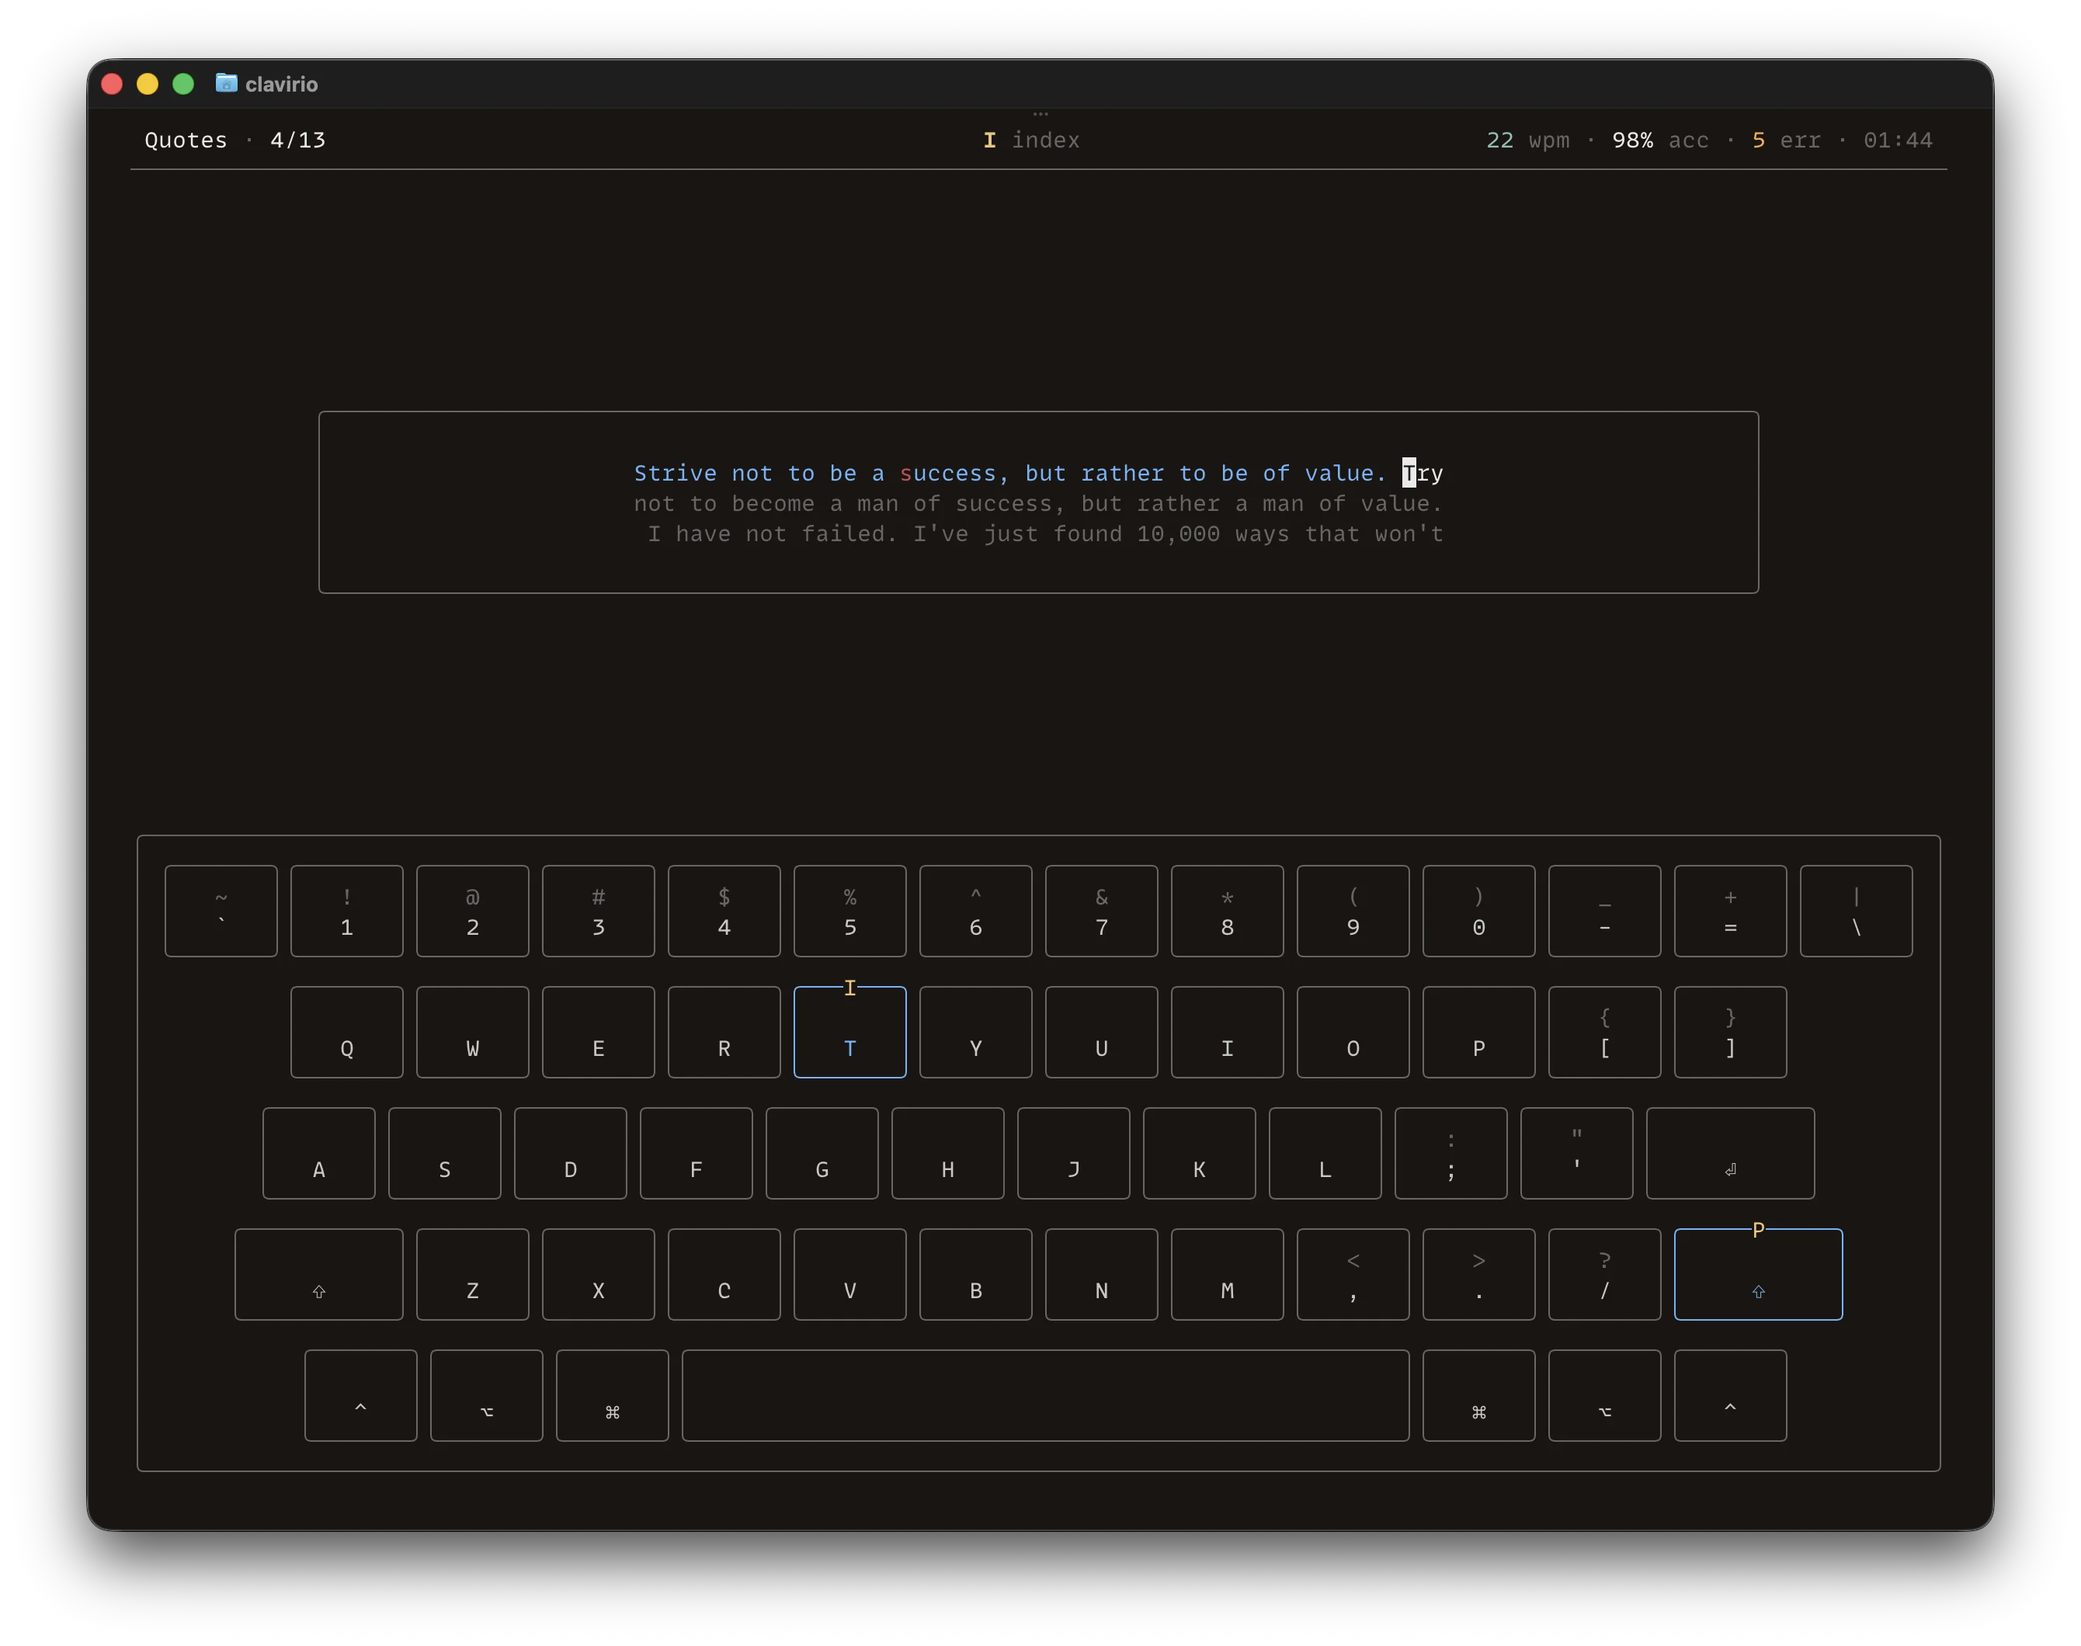
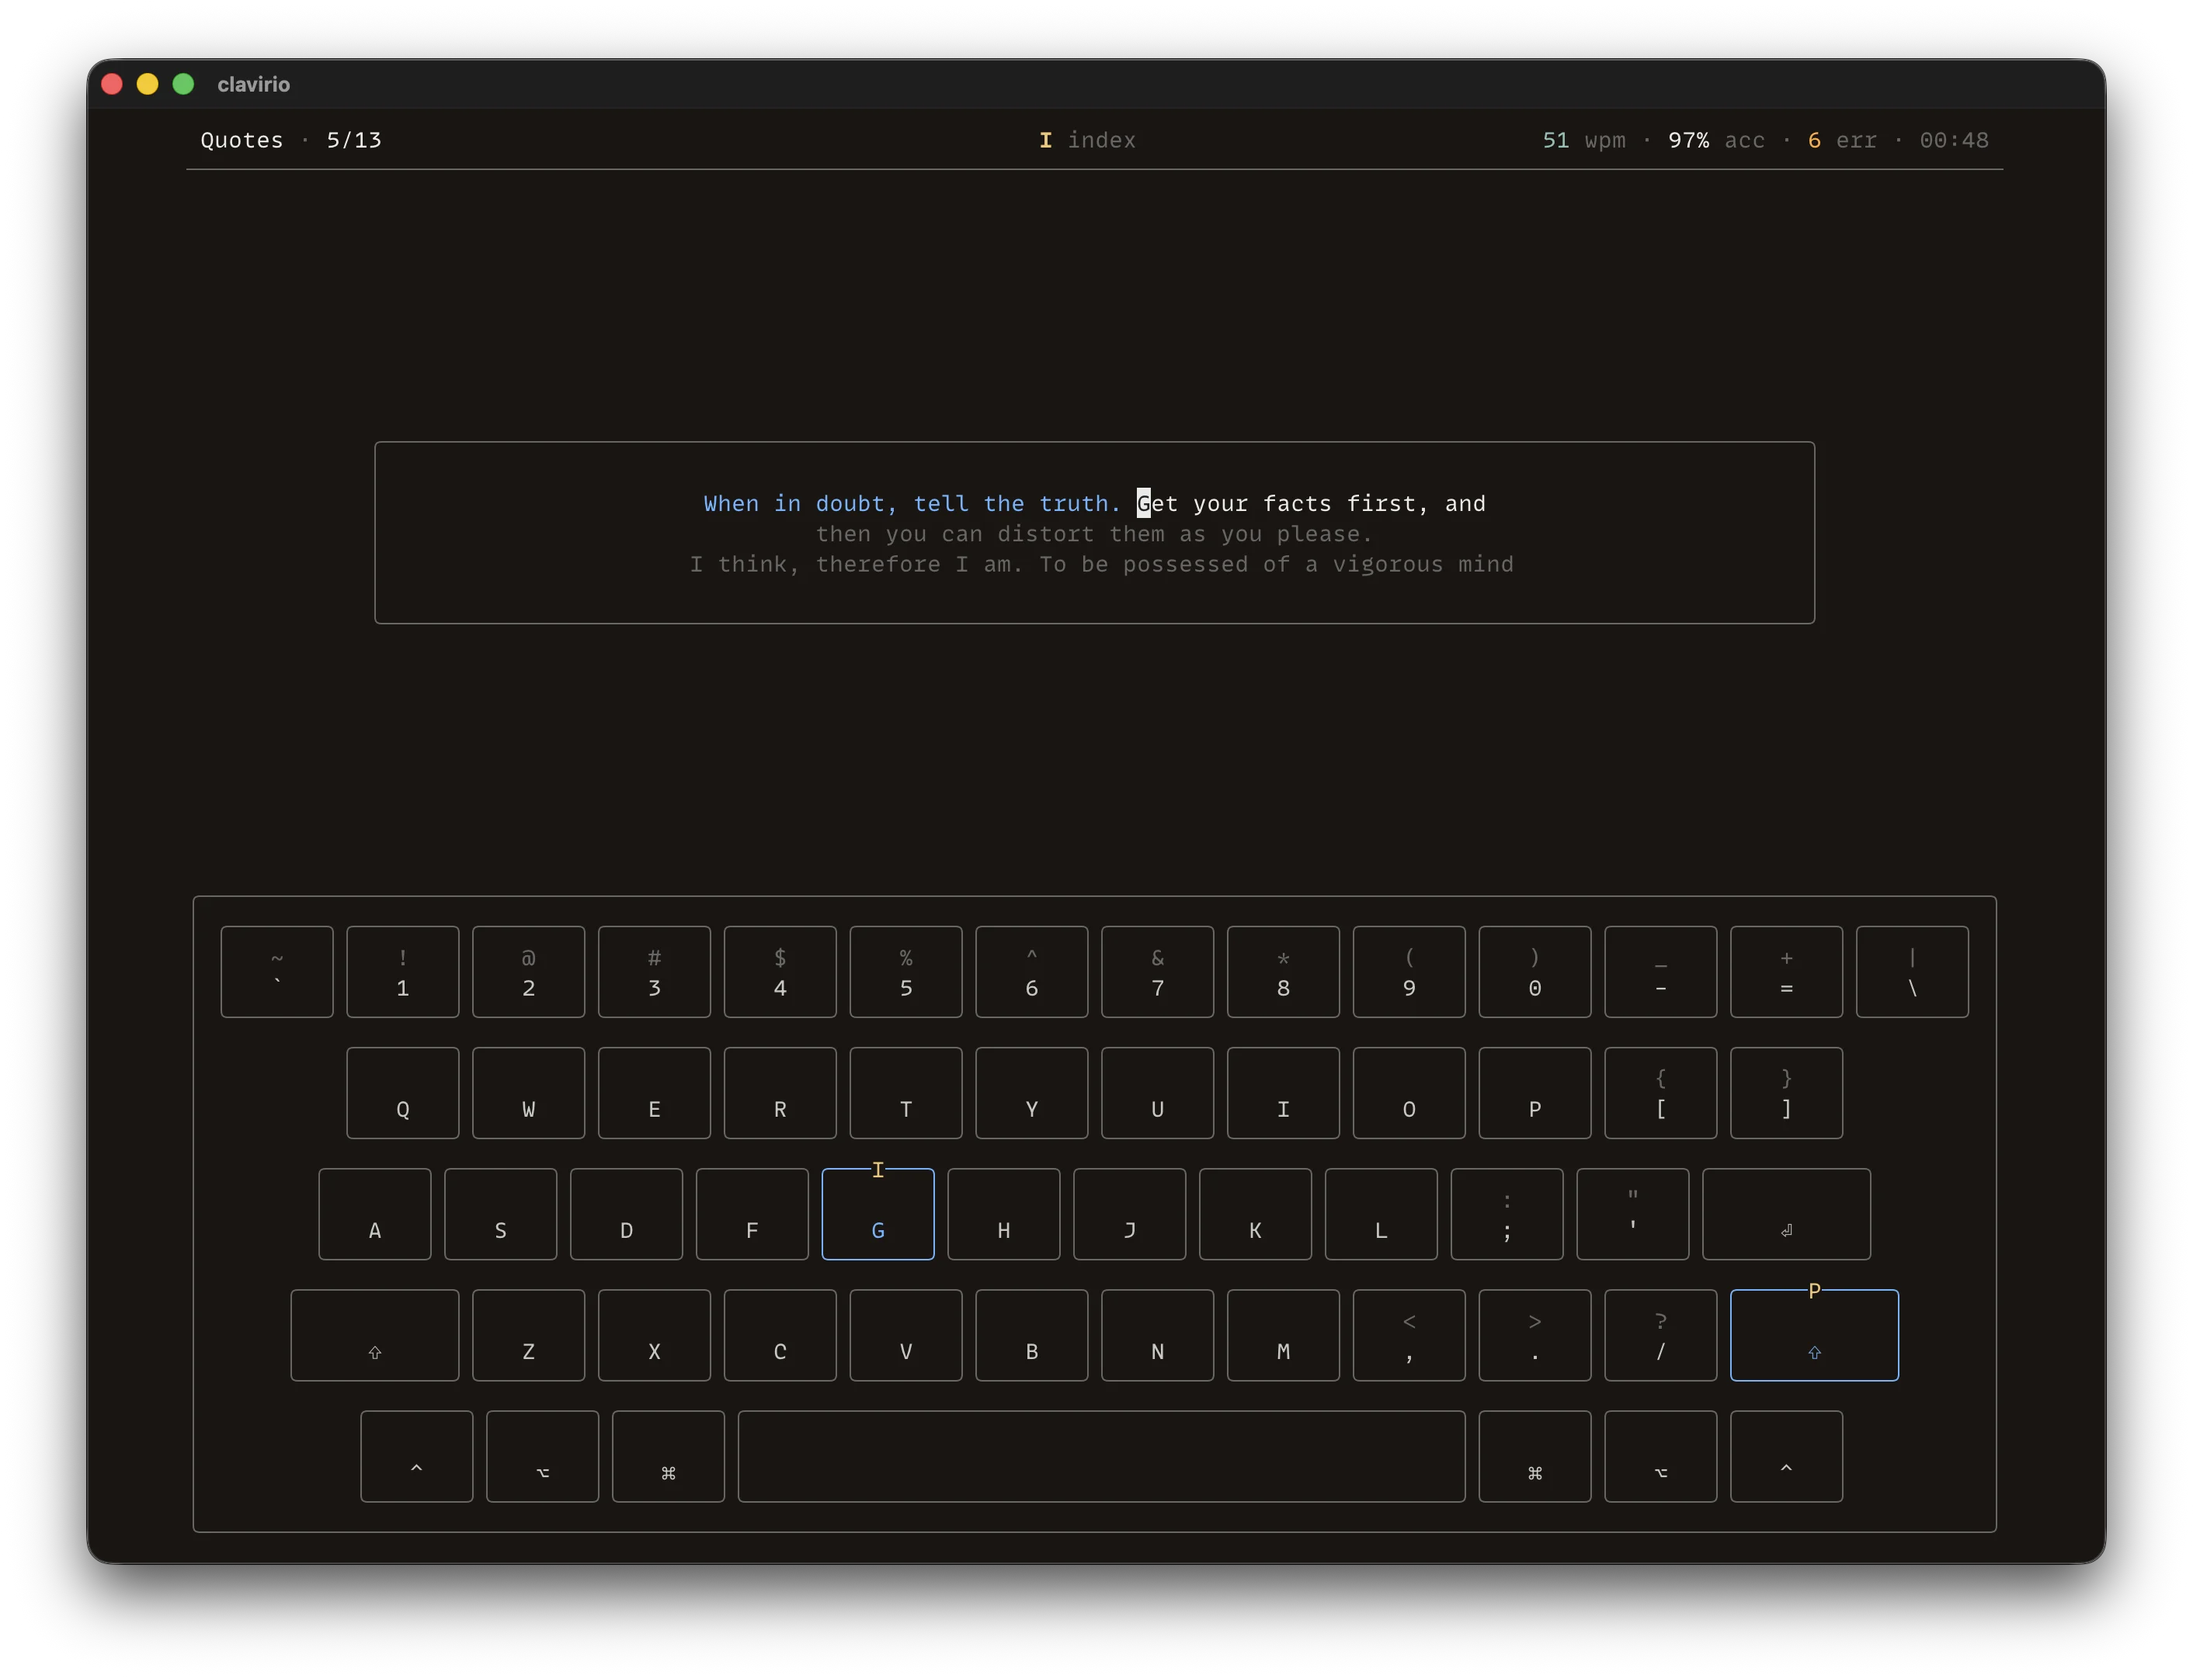
Redo the README screenshots in Ghostty and add a script that takes them

diff --git a/assets/screenshots.py b/assets/screenshots.py
@@ -1,0 +1,149 @@
+#!/usr/bin/env python3
+"""Takes the screenshots in the README.
+
+Run from the repository root on macOS, after `cargo build --release`:
+
+    python3 assets/screenshots.py
+
+It opens the same Ghostty window as assets/demo.py, with a fresh home folder,
+and takes four screenshots: a Quotes practice halfway through, its results, the
+lesson menu, and the practice menu in the light theme. Each is saved in
+assets/images as a PNG with the window's shadow and as a WebP. It takes about 3
+minutes, during which the Mac shouldn't be used. It needs what assets/demo.py
+needs, and cwebp.
+"""
+
+import json
+import re
+import subprocess
+import sys
+import tempfile
+import time
+from pathlib import Path
+
+# Importing demo would otherwise leave a __pycache__ folder in assets
+sys.dont_write_bytecode = True
+import demo  # noqa: E402
+
+IMAGES = Path("assets/images")
+WEBP_QUALITY = 85
+SETTLE = 1
+
+# An earlier Quotes session, slower than the one typed here, so the results
+# show "New best!"
+EARLIER_QUOTES = {
+    "timestamp": "2026-11-01T20:00:00", "wpm": 42.0, "accuracy": 97.0,
+    "correct": 580, "total": 598, "duration_secs": 170.0, "completed": True,
+    "id": "quotes", "title": "Quotes", "layout": "qwerty",
+}
+
+# Letters typed wrong, as a neighbouring key, the first times each comes up:
+# v, c, p and b are rare enough to end below 95% and show orange, and e is
+# common enough to stay blue, so the weakest keys listed are four orange ones
+# and a blue one
+MISTAKES = {"v": ("c", 1), "c": ("x", 2), "p": ("o", 1), "b": ("n", 1), "e": ("r", 1)}
+
+# The first screenshot is taken from this line on, just before a character
+# typed with Shift, so the keyboard shows a Shift key as well as the next key
+SHOT_LINE = 3
+SHIFTED = set('~!@#$%^&*()_+{}|:"<>?')
+QUOTES_IN_PRACTICE_MENU = 2
+LESSON_IN_MENU = 2
+
+
+def screen():
+    return subprocess.run(demo.TMUX + ["capture-pane", "-t", "demo", "-p"],
+                          check=True, capture_output=True, text=True).stdout
+
+
+def line_count():
+    found = re.search(r"(\d+)/(\d+)", screen().splitlines()[0])
+    if not found:
+        raise SystemExit("The header shows no line count")
+    return int(found.group(2))
+
+
+def current_line():
+    time.sleep(demo.MENU_STEP)
+    # The text panel is the first box: a blank row, then the line being typed
+    rows = [row for row in screen().splitlines() if "│" in row]
+    line = rows[1].strip().strip("│").strip() if len(rows) > 1 else ""
+    if not line:
+        raise SystemExit("No line to type was found on the screen")
+    return line
+
+
+def with_mistakes(line, made):
+    typed = []
+    for ch in line:
+        wrong, times = MISTAKES.get(ch, (ch, 0))
+        if made.get(ch, 0) < times:
+            made[ch] = made.get(ch, 0) + 1
+            typed.append(wrong)
+        else:
+            typed.append(ch)
+    return "".join(typed)
+
+
+def shot(window_id, name):
+    time.sleep(SETTLE)
+    png = IMAGES / f"{name}.png"
+    subprocess.run(["screencapture", "-x", f"-l{window_id}", str(png)], check=True)
+    subprocess.run(["cwebp", "-quiet", "-q", str(WEBP_QUALITY), str(png),
+                    "-o", str(png.with_suffix(".webp"))], check=True)
+    print(f"Took {png}")
+
+
+def press(key, times=1):
+    for _ in range(times):
+        demo.press(key)
+        time.sleep(demo.MENU_STEP)
+
+
+def main():
+    if not demo.APP.exists():
+        raise SystemExit("Run `cargo build --release` first")
+
+    home = Path(tempfile.mkdtemp(prefix="clavirio-screenshots-"))
+    data = home / ".clavirio"
+    data.mkdir()
+    (data / "history.json").write_text(json.dumps([EARLIER_QUOTES]))
+
+    try:
+        _, window_id = demo.open_window(home)
+
+        press("Down", LESSON_IN_MENU)
+        shot(window_id, "screenshot_dark_3")
+
+        press("m")
+        press("Down", QUOTES_IN_PRACTICE_MENU)
+        press("Enter")
+        time.sleep(SETTLE)
+
+        made = {}
+        shot_taken = False
+        for index in range(line_count()):
+            typed = with_mistakes(current_line(), made)
+            if index >= SHOT_LINE and not shot_taken:
+                at = next((i for i, ch in enumerate(typed)
+                           if i >= len(typed) // 4 and (ch.isupper() or ch in SHIFTED)), None)
+                if at is not None:
+                    demo.type_text(typed[:at])
+                    shot(window_id, "screenshot_dark")
+                    shot_taken = True
+                    typed = typed[at:]
+            demo.type_text(typed)
+        if not shot_taken:
+            raise SystemExit("No character typed with Shift came up for the first screenshot")
+        shot(window_id, "screenshot_dark_2")
+
+        press("Escape")
+        press("t")
+        press("Up", QUOTES_IN_PRACTICE_MENU)
+        shot(window_id, "screenshot_light")
+    finally:
+        subprocess.run(demo.TMUX + ["kill-server"], capture_output=True)
+
+
+if __name__ == "__main__":
+    main()
